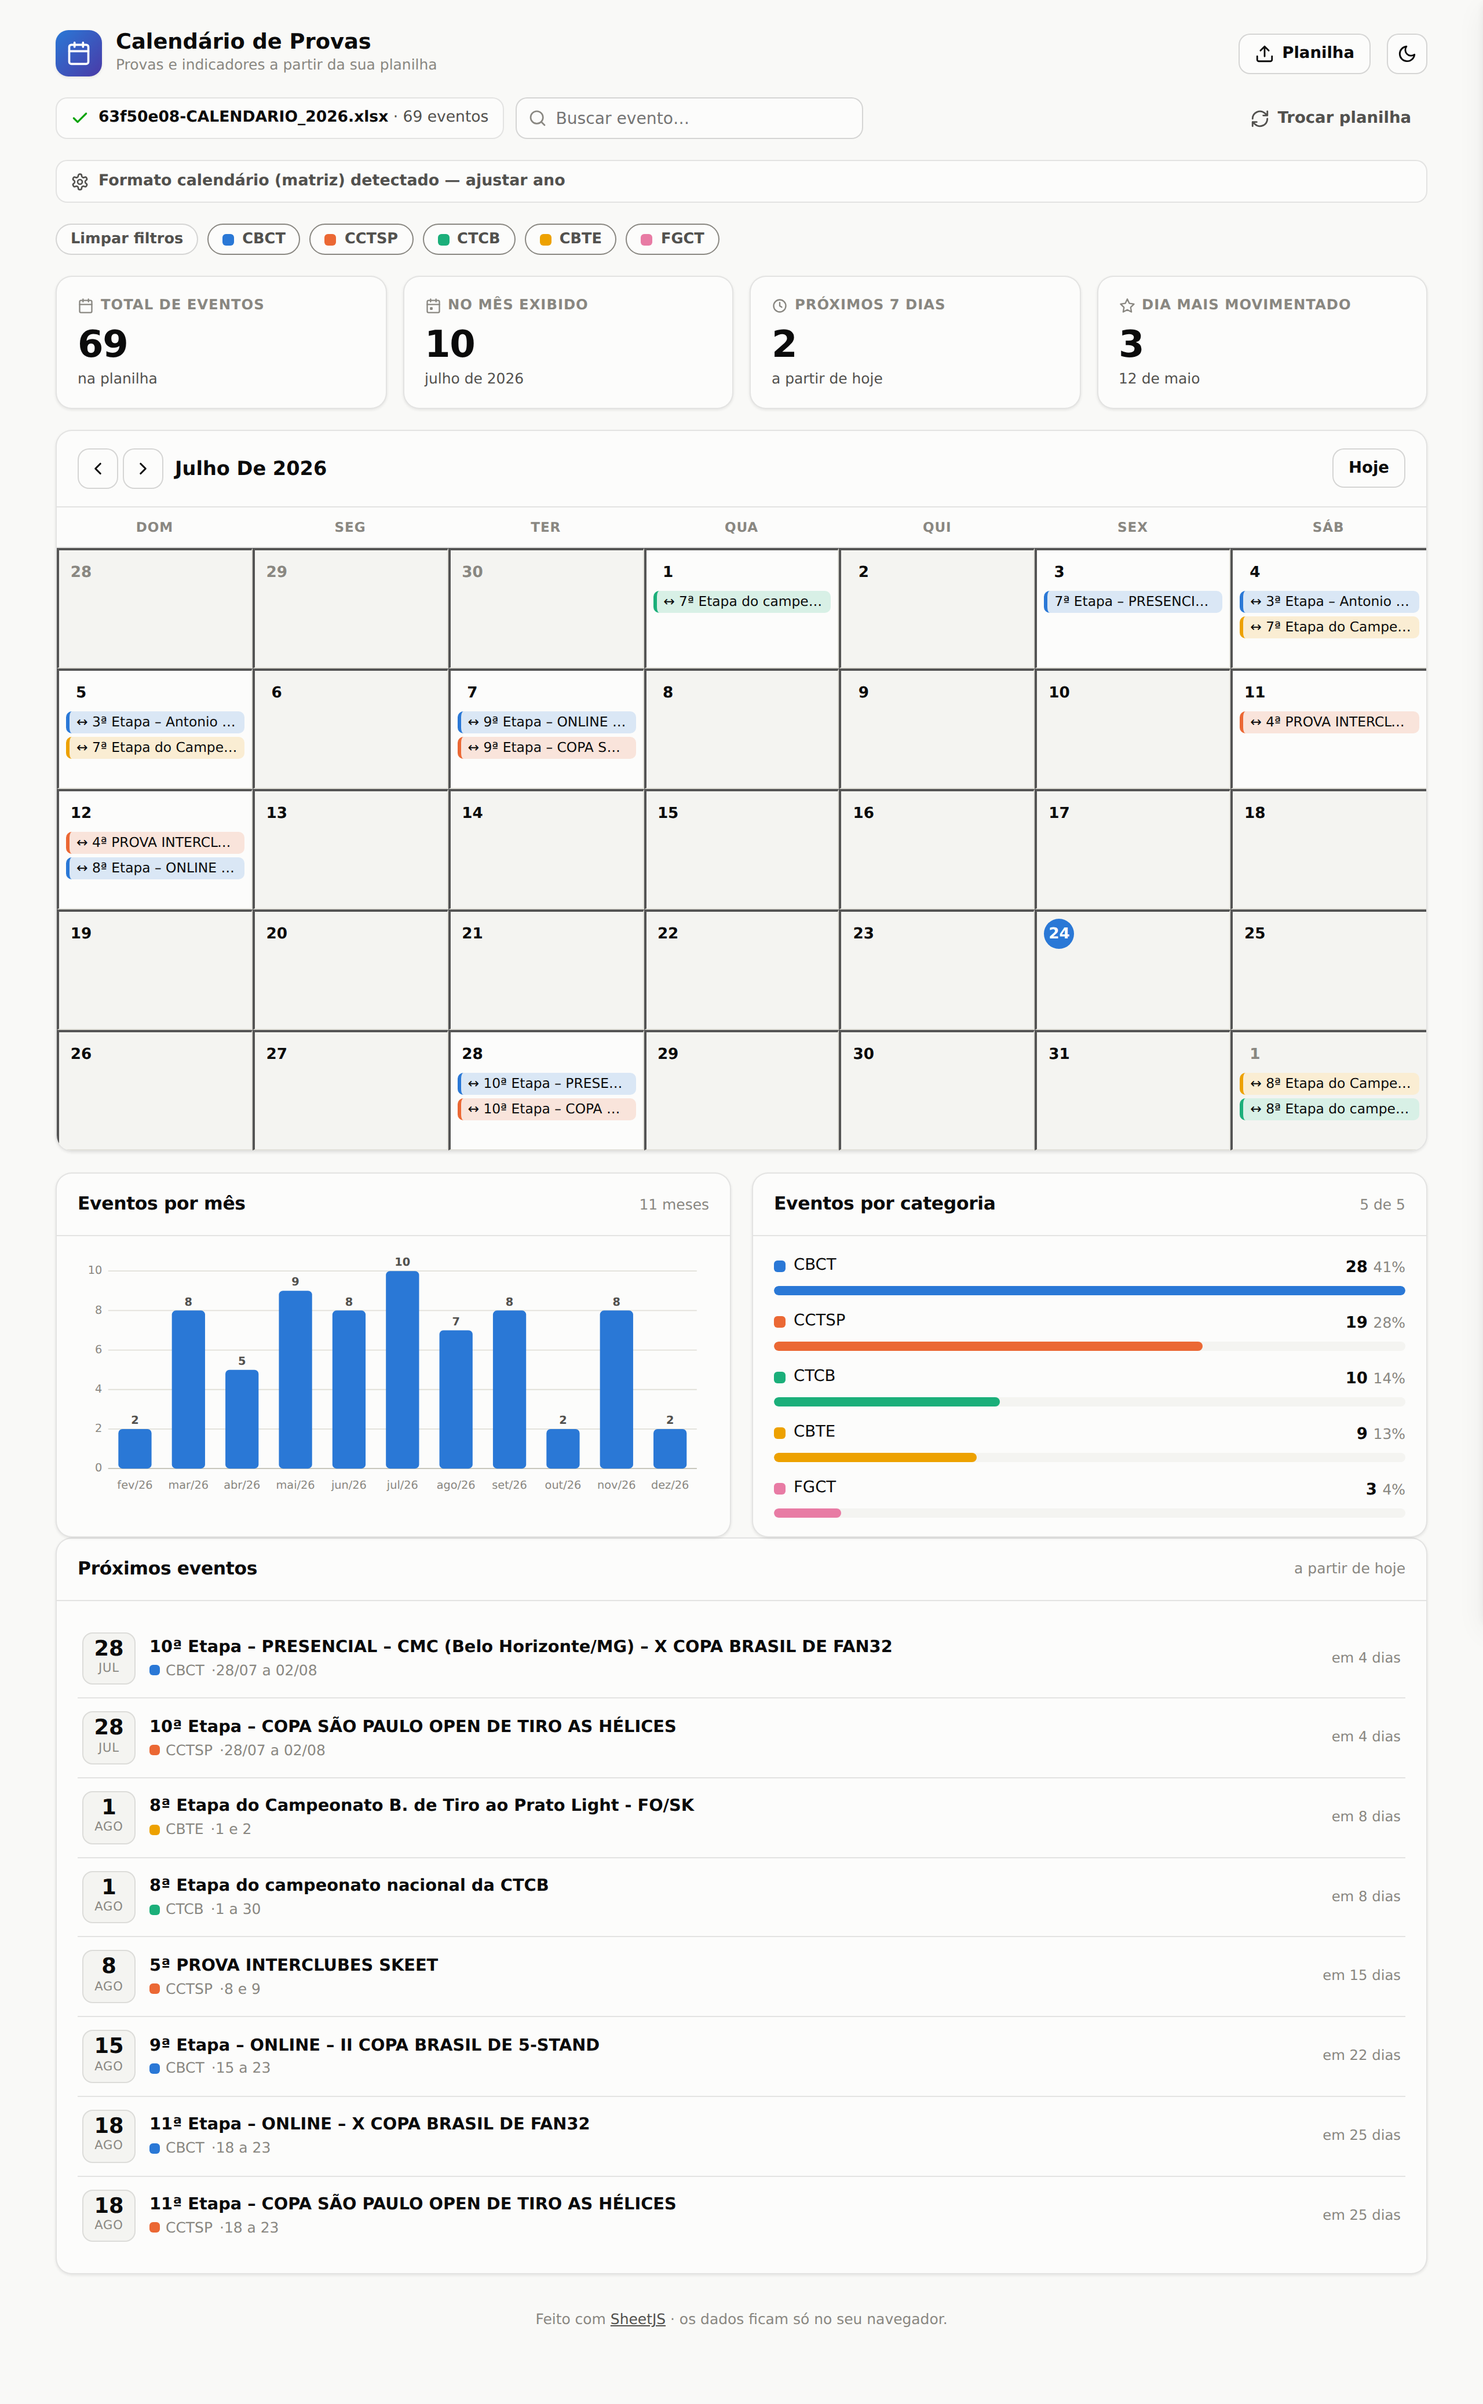
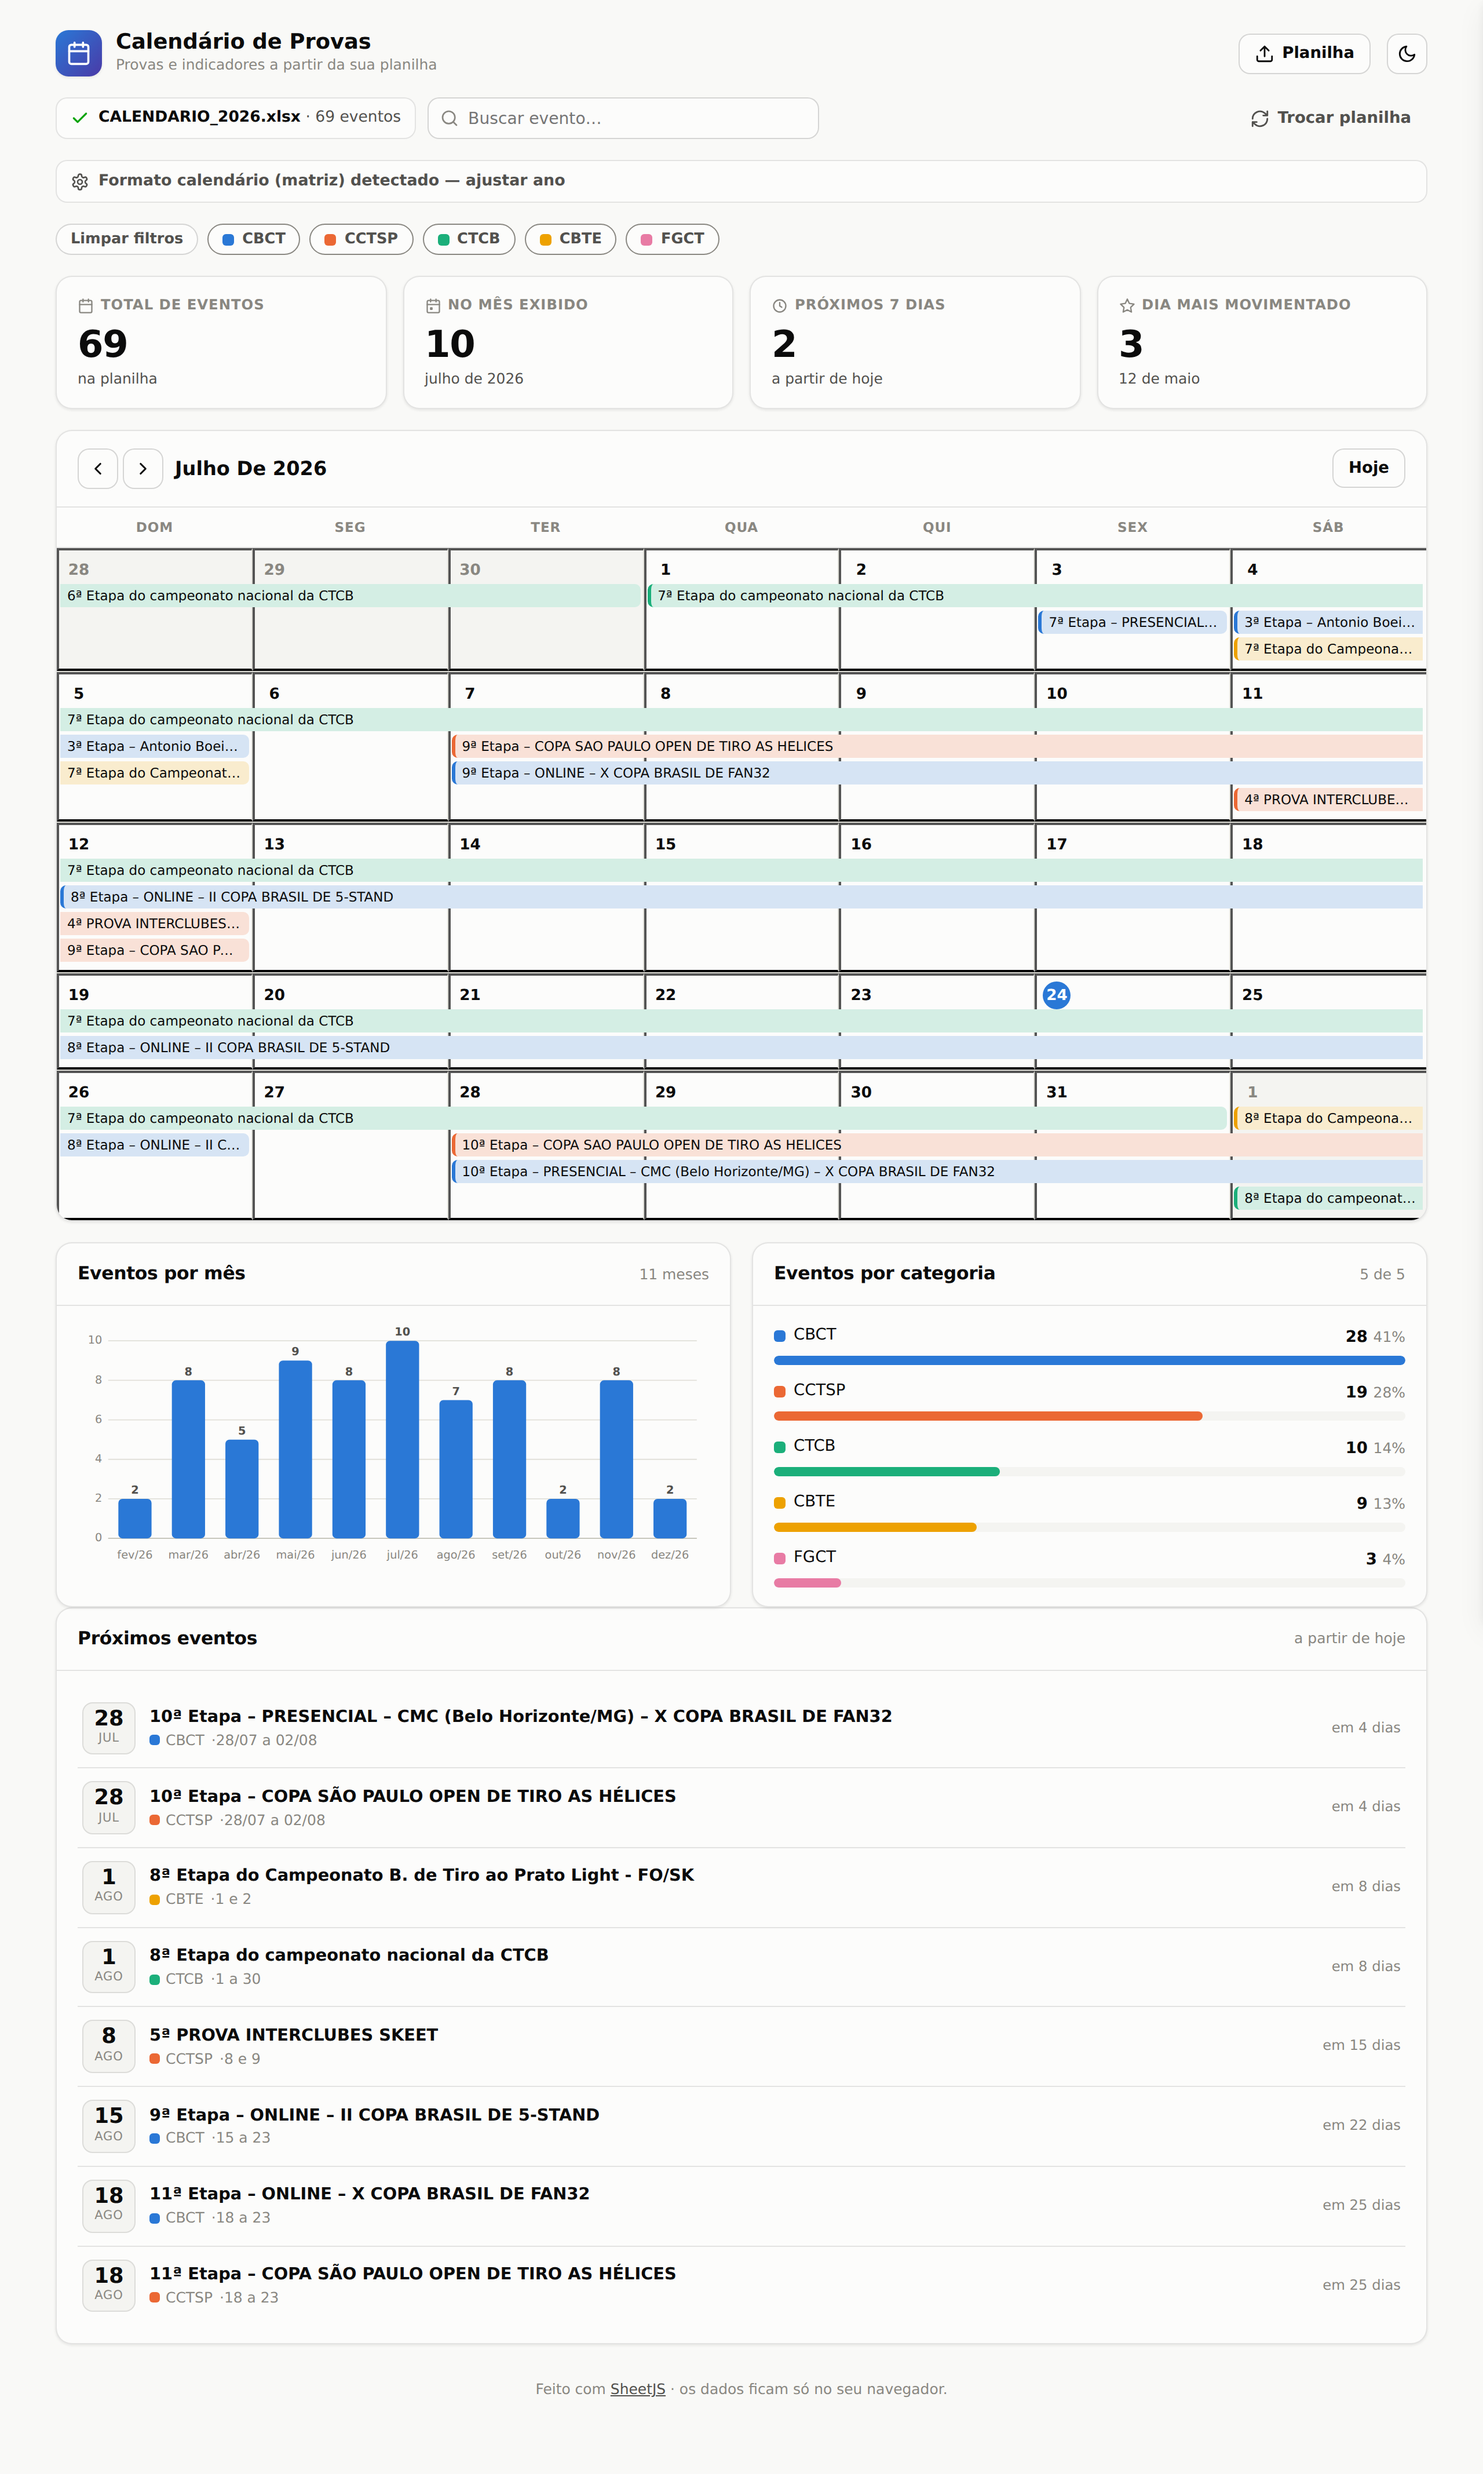
Calendário: provas de vários dias como barras contínuas (span)
- Reescreve o grid do calendário em linhas de semana com uma camada de barras
  posicionadas por coluna/faixa: cada prova aparece como uma barra contínua ao
  longo dos seus dias (ex.: 7 a 12), com o nome uma vez só — em vez de repetir
  o título em cada dia ou mostrar só no início
- Atribuição de faixas (lanes) evita sobreposição; overflow vira "+N"
- Cliques passam pelas barras para abrir o dia (painel mostra as provas ativas)
- Mobile: barras finas coloridas (estilo Gantt), sem texto
- Painel do dia volta a listar provas de vários dias em todos os seus dias

Claude-Session: https://claude.ai/code/session_01Jno6CA7WUD2jGycCFiydHK

diff --git a/assets/app.js b/assets/app.js
@@ -466,11 +466,8 @@ function eventsByDay(events) {
   const map = new Map();
   const push = (d, e) => { const k = dayKey(d); if (!map.has(k)) map.set(k, []); map.get(k).push(e); };
   for (const e of events) {
-    const spanDays = e.end ? Math.round((e.end - e.date) / 86400000) + 1 : 1;
-    // provas longas (mais de 4 dias) aparecem só no dia de início, pra não poluir o calendário
-    if (e.end && spanDays > 4) { push(e.date, e); continue; }
     let d = new Date(e.date);
-    const last = e.end ? new Date(Math.min(e.end.getTime(), addDays(e.date, 60).getTime())) : e.date;
+    const last = e.end ? new Date(Math.min(e.end.getTime(), addDays(e.date, 366).getTime())) : e.date;
     while (d <= last) { push(d, e); d = addDays(d, 1); }
   }
   return map;
@@ -652,37 +649,83 @@ function renderCalendar() {
   const first = new Date(year, month, 1);
   const lead = first.getDay();                    // 0 = domingo
   const daysInMonth = new Date(year, month + 1, 0).getDate();
-  const totalCells = Math.ceil((lead + daysInMonth) / 7) * 7;
+  const weeks = Math.ceil((lead + daysInMonth) / 7);
   const start = addDays(first, -lead);
-  const byDay = eventsByDay(filteredEvents());
   const t = today0();
+  const evs = filteredEvents();
+  const byDay = eventsByDay(evs);                 // spans completos, para o painel do dia
 
-  for (let i = 0; i < totalCells; i++) {
-    const d = addDays(start, i);
-    const inMonth = d.getMonth() === month;
-    const cell = el('button', 'cal-cell');
-    if (!inMonth) cell.classList.add('other-month');
-    if (sameDay(d, t)) cell.classList.add('today');
-    cell.appendChild(el('span', 'cal-daynum', String(d.getDate())));
+  const mobile = matchMedia('(max-width: 560px)').matches;
+  const DAYNUM_H = mobile ? 26 : 31;              // altura reservada para o número do dia
+  const BAR_H = mobile ? 7 : 20;
+  const BAR_GAP = 3;
+  const MAX_LANES = mobile ? 5 : 4;
 
-    const evs = byDay.get(dayKey(d)) || [];
-    const box = el('div', 'cal-events');
-    const shown = evs.slice(0, 3);
-    shown.forEach(e => {
-      const chip = el('div', 'cal-ev');
-      chip.style.setProperty('--ev-color', catColorOf(e));
-      const multi = e.end && !sameDay(e.date, e.end);
-      const txt = el('span', 'cal-ev-text', (multi ? '↔ ' : '') + e.title);
-      chip.appendChild(txt);
-      const range = multi ? ` · ${fmtDate(e.date)} – ${fmtDate(e.end)}` : '';
-      chip.title = `${e.title}${e.category ? ' · ' + e.category : ''}${range}`;
-      box.appendChild(chip);
-    });
-    if (evs.length > shown.length) box.appendChild(el('div', 'cal-more', `+${evs.length - shown.length} mais`));
-    cell.appendChild(box);
-    if (evs.length) cell.addEventListener('click', () => openDay(d, evs));
-    else cell.classList.add('empty-cell');
-    grid.appendChild(cell);
+  for (let w = 0; w < weeks; w++) {
+    const weekStart = addDays(start, w * 7);
+    const weekEnd = addDays(weekStart, 6);
+
+    // segmentos de eventos que cruzam esta semana
+    const segs = [];
+    for (const e of evs) {
+      const eEnd = e.end || e.date;
+      if (eEnd < weekStart || e.date > weekEnd) continue;
+      const c0 = Math.max(0, Math.round((e.date - weekStart) / 86400000));
+      const c1 = Math.min(6, Math.round((eEnd - weekStart) / 86400000));
+      segs.push({ e, c0, c1, contLeft: e.date < weekStart, contRight: eEnd > weekEnd });
+    }
+    segs.sort((a, b) => a.c0 - b.c0 || (b.c1 - b.c0) - (a.c1 - a.c0) || String(a.e.title).localeCompare(b.e.title));
+
+    // atribui "faixas" (lanes) — barras que se sobrepõem em colunas vão para faixas diferentes
+    const laneEnd = [];
+    for (const s of segs) {
+      let lane = 0;
+      while (lane < laneEnd.length && laneEnd[lane] >= s.c0) lane++;
+      s.lane = lane;
+      laneEnd[lane] = s.c1;
+    }
+    const shownLanes = Math.min(laneEnd.length, MAX_LANES);
+    const overflow = new Array(7).fill(0);
+    segs.forEach(s => { if (s.lane >= MAX_LANES) for (let c = s.c0; c <= s.c1; c++) overflow[c]++; });
+
+    const weekH = DAYNUM_H + shownLanes * (BAR_H + BAR_GAP) + 6;
+    const week = el('div', 'cal-week');
+    const row = el('div', 'cal-week-row');
+    for (let c = 0; c < 7; c++) {
+      const d = addDays(weekStart, c);
+      const cell = el('button', 'cal-cell');
+      cell.style.minHeight = weekH + 'px';
+      if (d.getMonth() !== month) cell.classList.add('other-month');
+      if (sameDay(d, t)) cell.classList.add('today');
+      cell.appendChild(el('span', 'cal-daynum', String(d.getDate())));
+      if (overflow[c] > 0) { const m = el('div', 'cal-more', `+${overflow[c]}`); m.style.marginTop = 'auto'; cell.appendChild(m); }
+      const dayEvs = byDay.get(dayKey(d)) || [];
+      if (dayEvs.length) cell.addEventListener('click', () => openDay(d, dayEvs));
+      else cell.classList.add('empty-cell');
+      row.appendChild(cell);
+    }
+    week.appendChild(row);
+
+    // camada de barras (por cima das células; cliques passam para as células)
+    const bars = el('div', 'cal-bars');
+    bars.style.top = DAYNUM_H + 'px';
+    for (const s of segs) {
+      if (s.lane >= MAX_LANES) continue;
+      const bar = el('div', 'cal-bar');
+      bar.style.setProperty('--ev-color', catColorOf(s.e));
+      bar.style.left = `calc(${(s.c0 / 7) * 100}% + 3px)`;
+      bar.style.width = `calc(${((s.c1 - s.c0 + 1) / 7) * 100}% - 6px)`;
+      bar.style.top = s.lane * (BAR_H + BAR_GAP) + 'px';
+      bar.style.height = BAR_H + 'px';
+      if (s.contLeft) bar.classList.add('cont-left');
+      if (s.contRight) bar.classList.add('cont-right');
+      if (!mobile) bar.appendChild(el('span', 'cal-bar-text', s.e.title));
+      const multi = s.e.end && !sameDay(s.e.date, s.e.end);
+      bar.title = `${s.e.title}${s.e.category ? ' · ' + s.e.category : ''}${multi ? ' · ' + fmtDate(s.e.date) + ' – ' + fmtDate(s.e.end) : ''}`;
+      bars.appendChild(bar);
+    }
+    week.appendChild(bars);
+    grid.appendChild(week);
   }
 }
 

diff --git a/assets/styles.css b/assets/styles.css
@@ -277,36 +277,45 @@ select.native-select {
 .cal-nav { display: inline-flex; gap: 4px; }
 
 .cal-grid { display: grid; grid-template-columns: repeat(7, minmax(0, 1fr)); }
+#cal-grid { display: block; }                 /* os dias viram linhas de semana */
 .cal-dow {
   text-align: center; padding: 9px 4px; font-size: 0.72rem; font-weight: 600;
   color: var(--text-muted); text-transform: uppercase; letter-spacing: 0.04em;
   border-bottom: 1px solid var(--border);
 }
+.cal-week { position: relative; border-bottom: 1px solid var(--grid); }
+.cal-week:last-child { border-bottom: none; }
+.cal-week-row { display: grid; grid-template-columns: repeat(7, minmax(0, 1fr)); }
 .cal-cell {
-  min-height: 104px; min-width: 0; border-right: 1px solid var(--grid); border-bottom: 1px solid var(--grid);
-  padding: 6px 6px 8px; position: relative; text-align: left; background: var(--surface-1);
-  display: flex; flex-direction: column; gap: 3px; transition: background .1s;
+  min-width: 0; border-right: 1px solid var(--grid);
+  padding: 5px 5px 6px; position: relative; text-align: left; background: var(--surface-1);
+  display: flex; flex-direction: column; transition: background .1s;
   font-family: inherit; color: inherit;
 }
 .cal-cell:nth-child(7n) { border-right: none; }
-.cal-cell:hover { background: var(--surface-hover); }
+.cal-cell:not(.empty-cell) { cursor: pointer; }
+.cal-cell:not(.empty-cell):hover { background: var(--surface-hover); }
 .cal-cell.other-month { background: var(--surface-2); }
 .cal-cell.other-month .cal-daynum { color: var(--text-muted); }
-.cal-cell.empty-cell { cursor: default; background: var(--surface-2); }
-.cal-cell.empty-cell:hover { background: var(--surface-2); }
+.cal-cell.empty-cell { cursor: default; }
 .cal-daynum {
-  font-size: 0.82rem; font-weight: 600; width: 26px; height: 26px; display: grid;
+  font-size: 0.82rem; font-weight: 600; width: 24px; height: 24px; display: grid;
   place-items: center; border-radius: 50%; align-self: flex-start;
 }
 .cal-cell.today .cal-daynum { background: var(--accent); color: #fff; }
-.cal-events { display: flex; flex-direction: column; gap: 3px; overflow: hidden; min-width: 0; }
-.cal-ev {
-  font-size: 0.73rem; line-height: 1.25; padding: 2px 6px; border-radius: 5px;
-  white-space: nowrap; overflow: hidden; text-overflow: ellipsis;
-  background: color-mix(in srgb, var(--ev-color) 16%, var(--surface-1));
-  color: var(--text-primary); border-left: 3px solid var(--ev-color);
+
+.cal-bars { position: absolute; left: 0; right: 0; pointer-events: none; }
+.cal-bar {
+  position: absolute; box-sizing: border-box; overflow: hidden;
+  display: flex; align-items: center; white-space: nowrap;
+  font-size: 0.72rem; line-height: 1; padding: 0 6px; border-radius: 5px;
+  background: color-mix(in srgb, var(--ev-color) 18%, var(--surface-1));
+  border-left: 3px solid var(--ev-color); color: var(--text-primary);
 }
-.cal-more { font-size: 0.7rem; color: var(--text-muted); font-weight: 600; padding: 0 4px; }
+.cal-bar.cont-left { border-left: none; border-top-left-radius: 0; border-bottom-left-radius: 0; }
+.cal-bar.cont-right { border-top-right-radius: 0; border-bottom-right-radius: 0; }
+.cal-bar-text { overflow: hidden; text-overflow: ellipsis; }
+.cal-more { font-size: 0.68rem; color: var(--text-muted); font-weight: 600; align-self: flex-start; }
 
 /* ------------------------------------------------------------ charts row --- */
 .charts-row { display: grid; grid-template-columns: 1fr 1fr; gap: 18px; }
@@ -419,17 +428,14 @@ details.mapping[open] > summary { border-bottom-left-radius: 0; border-bottom-ri
 @media (max-width: 860px) {
   .kpi-row { grid-template-columns: repeat(2, 1fr); }
   .charts-row { grid-template-columns: 1fr; }
-  .cal-cell { min-height: 82px; }
   .cal-title { min-width: 0; font-size: 0.95rem; }
 }
 @media (max-width: 560px) {
   body { font-size: 14px; }
   .cal-dow { font-size: 0.62rem; padding: 7px 1px; }
-  .cal-cell { min-height: 64px; padding: 4px 3px; }
+  .cal-cell { padding: 4px 3px; }
   .cal-daynum { width: 22px; height: 22px; font-size: 0.76rem; }
-  .cal-ev { font-size: 0.64rem; padding: 1px 4px; }
-  .cal-ev-text { display: none; }
-  .cal-ev { height: 6px; padding: 0; border-left: none; border-radius: 3px; background: var(--ev-color); }
+  .cal-bar { border-left-width: 0; border-radius: 3px; background: var(--ev-color); }
   .kpi-value { font-size: 1.6rem; }
   .brand-sub { display: none; }
 }
